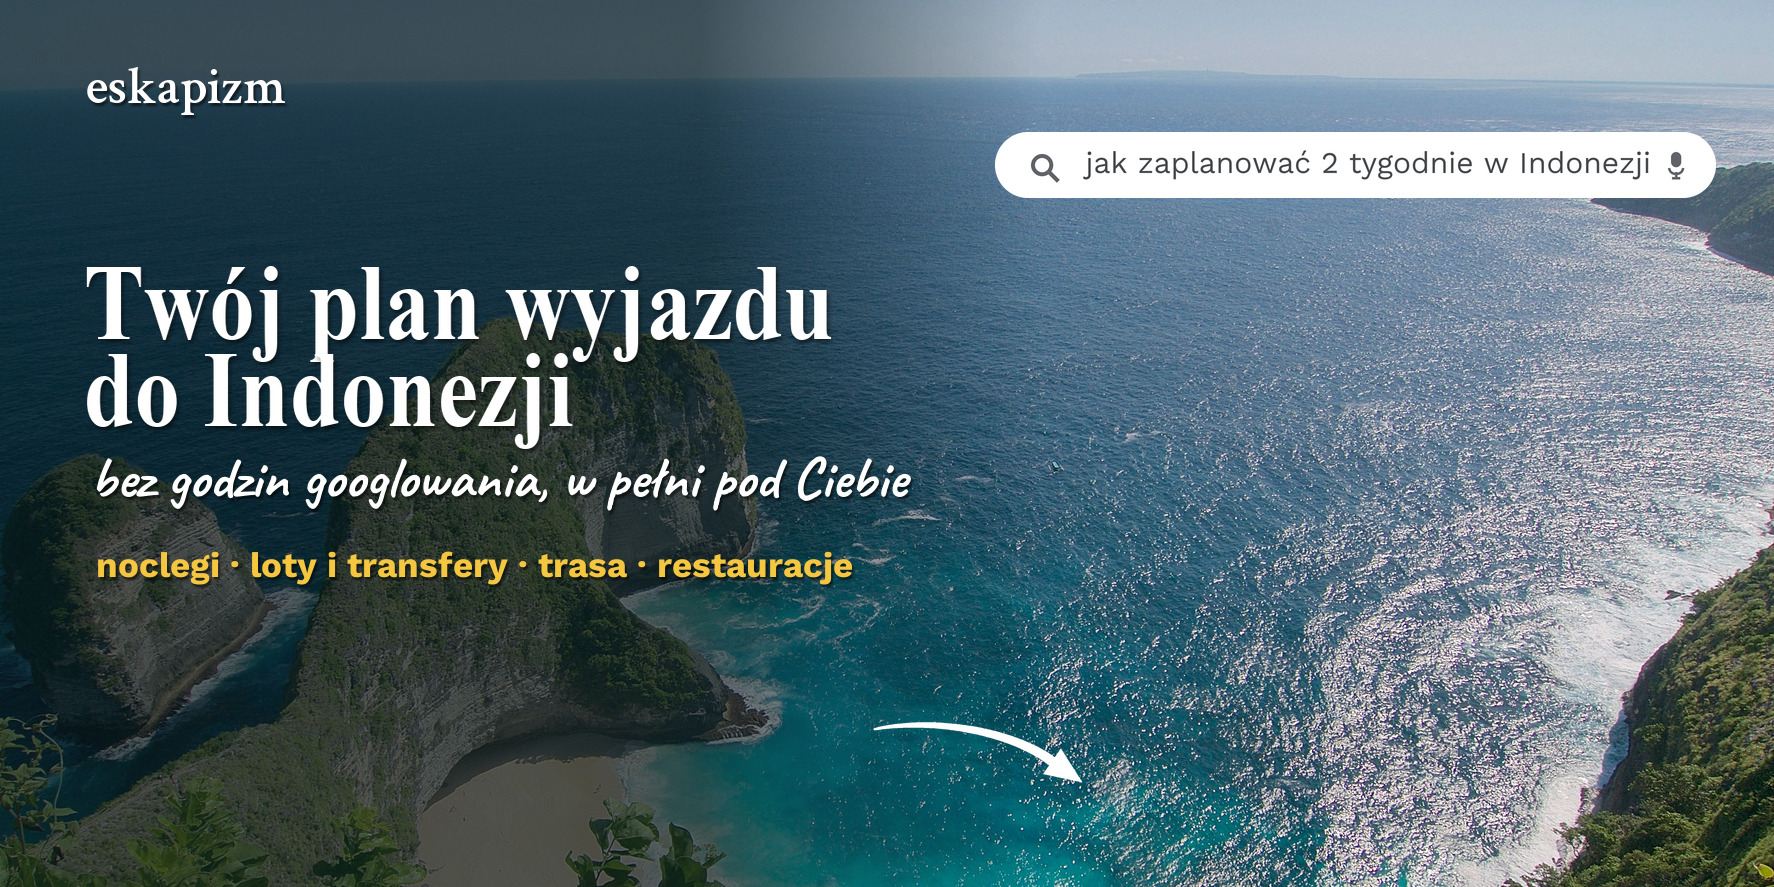
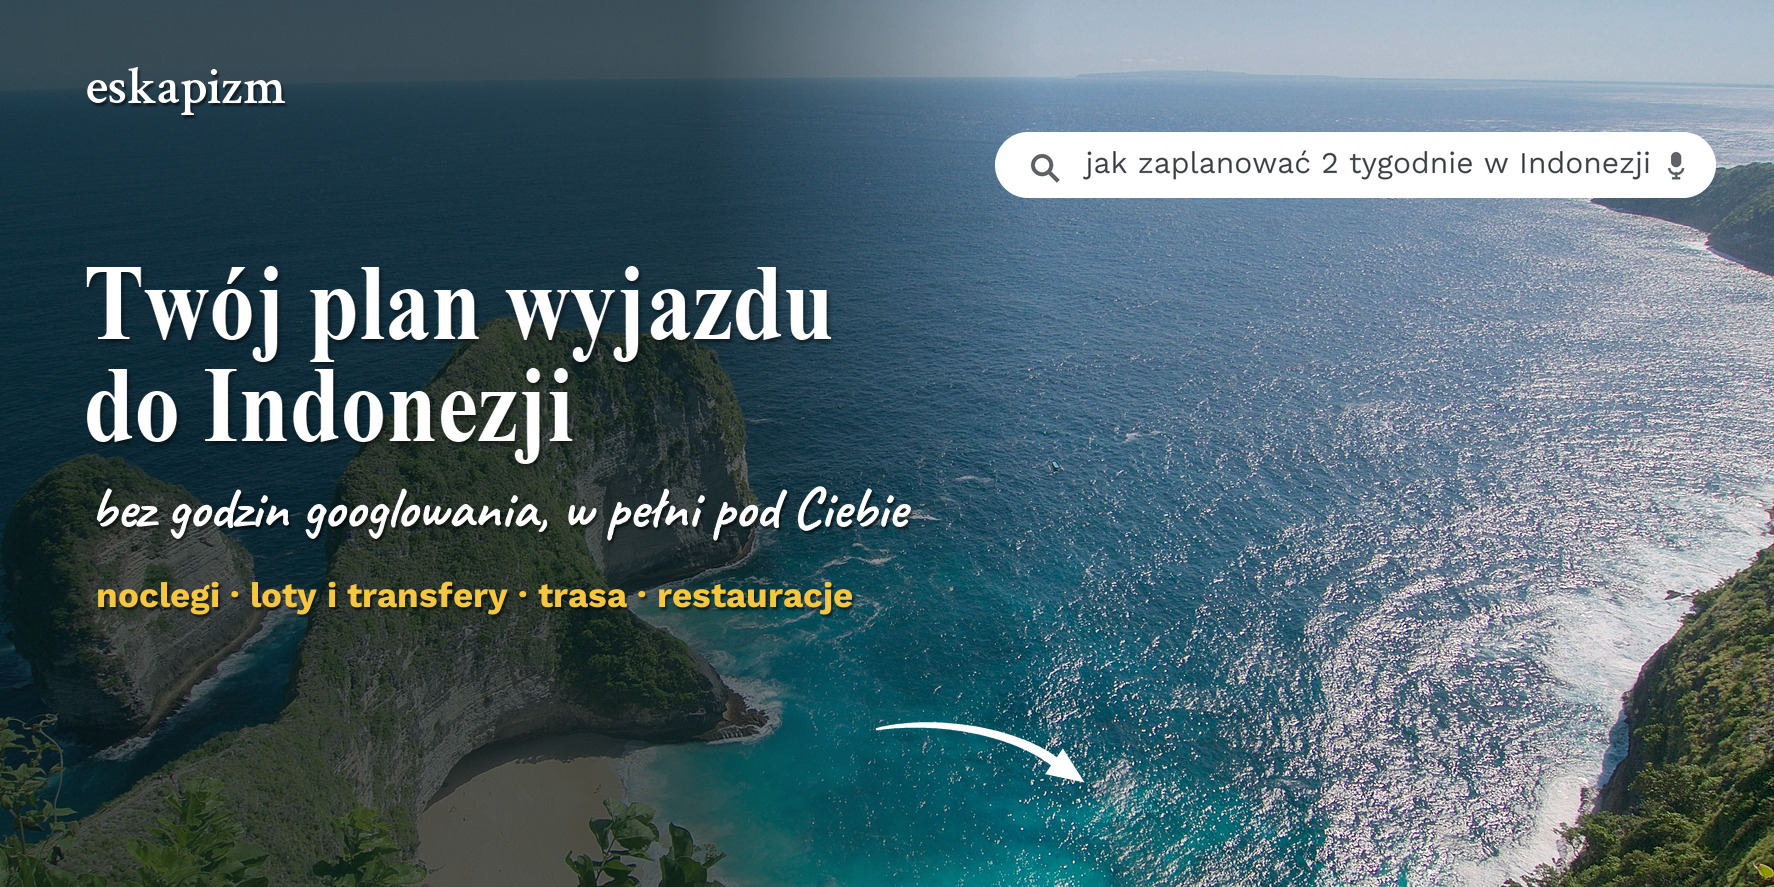
Fix the headline lines overlapping
Line height was 0.82 of the font size, but the ink of "Twój plan wyjazdu" is
0.90 of it — the acute over ó plus the j and y descenders. The second line was
therefore landing 11px into the first on mobile and 9px on desktop. Raised the
factor to 0.96, which leaves a 7px gap on mobile and 6px on desktop: measured
off the rendered pixels, not eyeballed.

Present in both layouts from the same expression, so both are fixed; it only
became obvious on mobile because the type is larger there.

Changed region(s): [[0.031, 0.3957, 0.5271, 0.7001], [0.5891, 0.8523, 0.6201, 0.8828], [0.5581, 0.8219, 0.5891, 0.8523]]

diff --git a/Baner_Indonezja.html b/Baner_Indonezja.html
@@ -83,7 +83,7 @@
   .esk-bn__cta--m {
     display: block;
     left: 11.2037%;
-    top: 88.6647%;
+    top: 88.9018%;
     width: 77.5926%;
   }
 }

diff --git a/Baner_Tajlandia.html b/Baner_Tajlandia.html
@@ -83,7 +83,7 @@
   .esk-bn__cta--m {
     display: block;
     left: 11.7593%;
-    top: 88.6647%;
+    top: 88.9018%;
     width: 76.4815%;
   }
 }

diff --git a/Baner_Wietnam.html b/Baner_Wietnam.html
@@ -83,7 +83,7 @@
   .esk-bn__cta--m {
     display: block;
     left: 9.4444%;
-    top: 88.6647%;
+    top: 88.9018%;
     width: 81.1111%;
   }
 }
